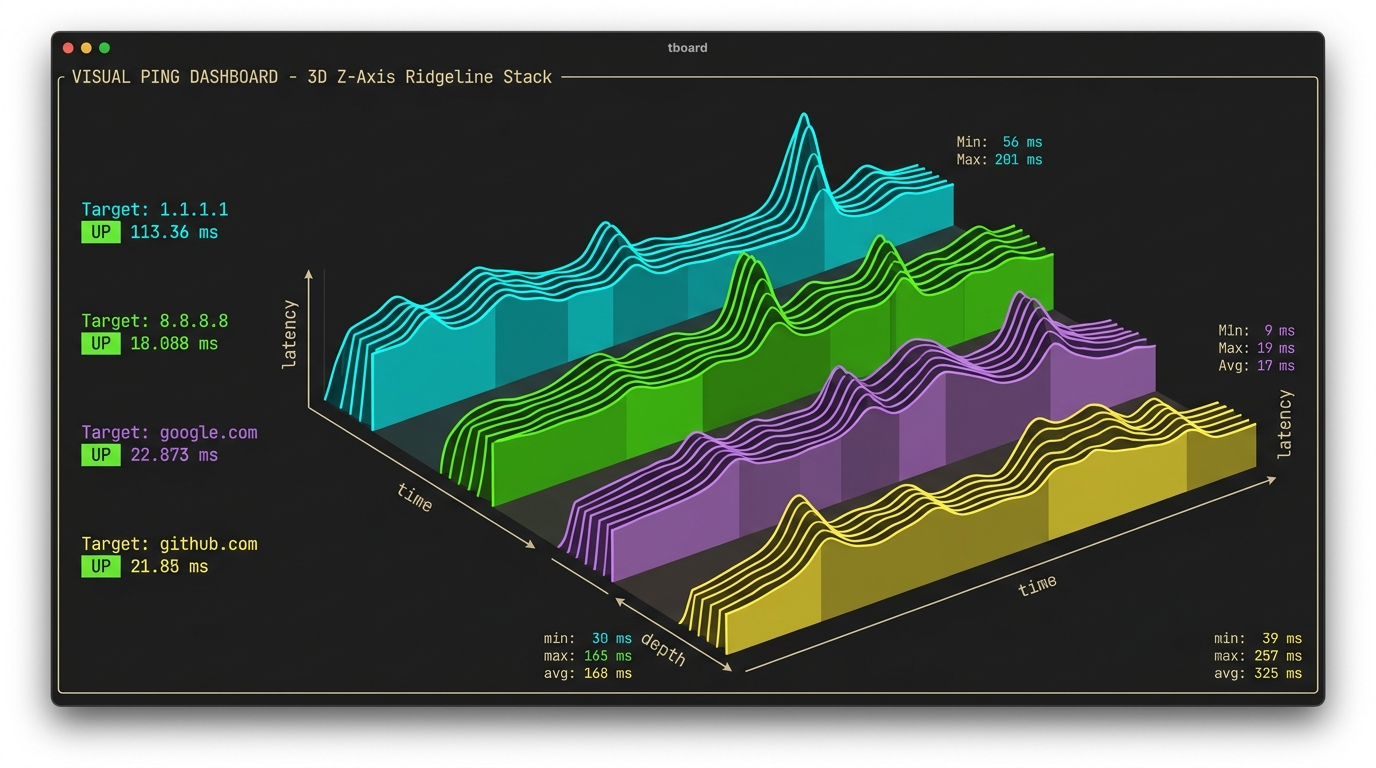
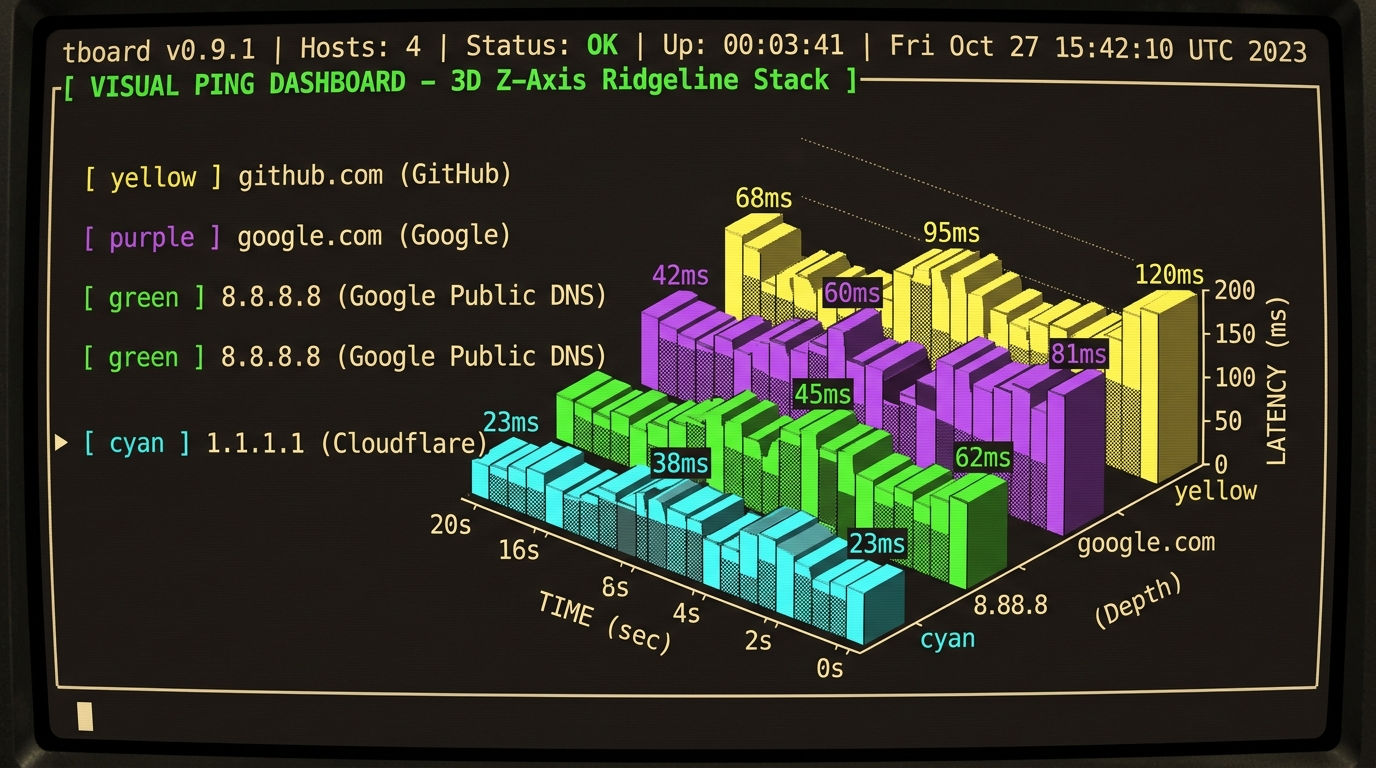
docs: replace images with real block-rune TUI graphics and animated GIF demo

diff --git a/README.md b/README.md
@@ -2,7 +2,7 @@
 
 An interactive, privilege-free visual **3D Ping Dashboard TUI** built in Go using [Bubble Tea](https://github.com/charmbracelet/bubbletea), [Lip Gloss](https://github.com/charmbracelet/lipgloss), [ntcharts](https://github.com/NimbleMarkets/ntcharts), and [Bubbles](https://github.com/charmbracelet/bubbles).
 
-![3D Ridgeline Stacked Waterfall View](docs/images/tboard_3d_waterfall_demo.jpg)
+![3D Ridgeline Stacked Waterfall Demo](docs/images/tboard_demo.gif)
 
 ---
 
